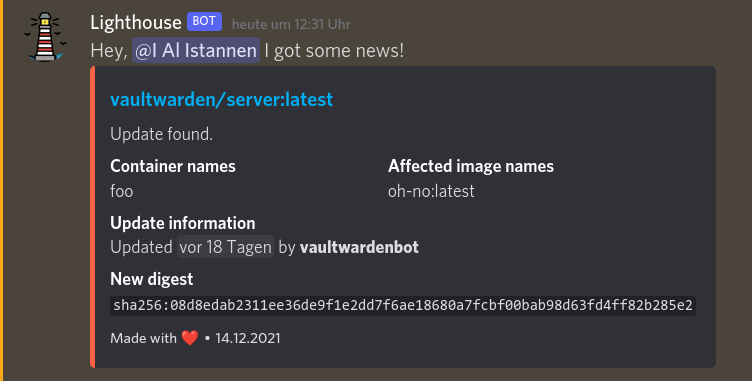
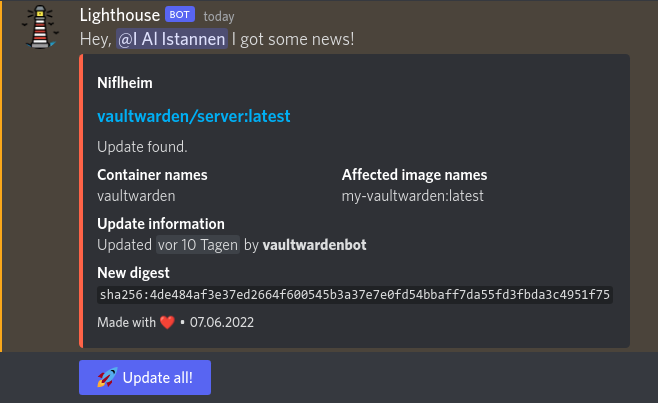
Document bot mode in README

diff --git a/README.md b/README.md
@@ -66,24 +66,32 @@ this database is not lost when you recreate the container.
 Watches for docker base image updates
 
 USAGE
-  lighthouse [OPTIONS] URL
+  lighthouse [OPTIONS] URL|TOKEN
 
 PARAMETERS
-  URL  Discord webhook URL
+  URL|TOKEN  Discord webhook URL or discord bot token
 
 OPTIONS
-  --check-times CRONTAB         Check times in cron syntax (https://crontab.guru).
-                                Default: '23 08 * * *'
-  --mention MENTION             Discord mention (e.g. '<@userid>')
-  --mention-text TEXT           Text to send in Discord
-  --docker-config PATH          Path to docker config. Default: /root/.docker/config.json
-  --hostname NAME               The hostname to mention in notifications
-  --base-image-update STRATEGY  Whether to 'only_pull_unknown' base images or
-                                'pull_and_update' them
-  --require-label               Ignore containers without 'lighthouse.enabled' label.
-                                Default: false
-  --notify-again                Notify you more than once about an image update.
-                                Default: false
+  --check-times CRONTAB                            Check times in cron syntax (https://crontab.guru).
+                                                   Default: '23 08 * * *'
+  --mention MENTION                                Discord mention (e.g. '<@userid>')
+  --mention-text TEXT                              Text to send in Discord
+  --docker-config PATH                             Path to docker config.
+                                                   Default: /root/.docker/config.json
+  --hostname NAME                                  The hostname to mention in notifications
+  --base-image-update STRATEGY                     Whether to 'only_pull_unknown' base images or 'pull_and_update' them
+  --require-label                                  Ignore containers without 'lighthouse.enabled' label.
+                                                   Default: false
+  --notify-again                                   Notify you more than once about an image update.
+                                                   Default: false
+
+# For bot mode, ignore when using with a webhook URL
+
+  --bot-updater-docker-image IMAGE                 The name of the image to use for updating containers.
+                                                   Default: 'library/docker'
+  --bot-updater-mount BOT-UPDATER-MOUNT            The mounts for created updater containers
+  --bot-updater-entrypoint BOT-UPDATER-ENTRYPOINT  The binary to call in the updater container
+  --bot-channel-id BOT-CHANNEL-ID                  The channel id the bot should send updates to
 ```
 
 The mention text can include the placeholder `{IMAGES}` which will be replaced
@@ -91,8 +99,26 @@ with a space-separated list of the images having updates available.
 
 You can set the `LOG_LEVEL` environment variable to `DEBUG` to enable debug logging.
 
+### As a discord bot
+
+When passing a bot token instead of a webhook url, *Lighthouse* will act as a
+full-fledged discord bot.
+You can obtain a token by creating a bot on
+https://discord.com/developers/applications.
+When *Lighthouse* acts as a bot and a bot updater docker image was specified,
+*Lighthouse* will show an "Update" button in discord.
+Once pressed, it will update all base images and then start an updater docker
+container with the given image and pass it all outdated container names as
+arguments.
+The updater image can then automatically rebuild and restart all affected
+containers, allowing you to apply updates right after seeing the notification
+in discord.
 
 ### Example
+
+<details>
+
+<summary>Webhook mode</summary>
 
 ```yml
 version: "3.9"
@@ -125,6 +151,60 @@ services:
 volumes:
   data: {}
 ```
+
+</details>
+
+<details>
+
+<summary>Bot mode</summary>
+
+```yml
+version: "3.9"
+services:
+  lighthouse:
+    image: "ghcr.io/i-al-istannen/lighthouse:latest"
+    volumes:
+      # Lighthouse needs to talk to docker
+      - /var/run/docker.sock:/var/run/docker.sock
+      # Registry authentication is stored in the docker config.
+      # Mount through whatever config file you need.
+      - /root/.docker/config.json:/root/.docker/config.json
+      # Persist known image config, so you do not get notified
+      # multiple times for a single image, even if you recreate
+      # the container.
+      - data:/data
+    command:
+      # Include this name in the alert title
+      - '--hostname=Yggdrasil'
+      # Tag the user with id 12345678
+      - '--mention=<@12345678>'
+      # Include this text after the mention
+      - '--mentionText=I got some news!'
+      # Run every day at 06:13 (https://crontab.guru/#13_06_*_*_*)
+      - '--check-times=13 06 * * *'
+      # Use this bot token
+      - 'xxxxxxxxxxxxxxxxxxxxxxxx.xxxxxx.xxxxxxxxxxxxxxxxxxxxxxxxxxxxxxxxxxxxxx'
+      # The id of the channel the bot should send messages to
+      - '--bot-channel-id=926553453583532043'
+
+      # The script to run in the updater container
+      - '--bot-updater-entrypoint=/work/rebuild-container.sh'
+      # Use the docker image for the updater container (default)
+      - '--bot-updater-docker-image=docker'
+
+      # Mount the docker-compose files the updater container will rebuild into the
+      # updater container
+      - '--bot-updater-mount=/compose-files:/work'
+      # Mount the docker socket into the updater so it can use compose
+      - '--bot-updater-mount=/var/run/docker.sock:/var/run/docker.sock'
+      # Mount the docker daemon config into the updater so it can auth to registries
+      - '--bot-updater-mount=/root/.docker/config.json:/root/.docker/config.json'
+    restart: always
+
+volumes:
+  data: {}
+```
+</details>
 
 You also need to ensure you label all your derived containers with
 `lighthouse.base`, e.g. `lighthouse.base=nginx:stable`.
